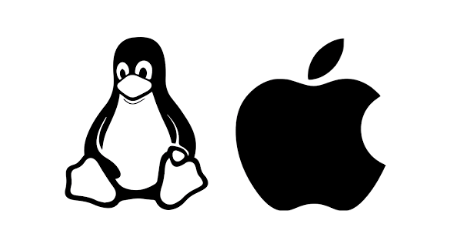
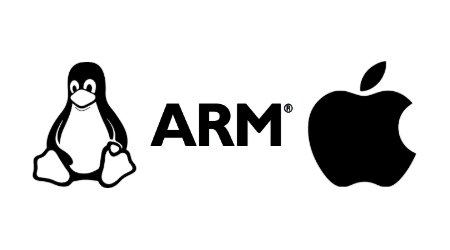
Add ARM.

Changed region(s): [[0.0622, 0.14, 0.9333, 0.868]]

diff --git a/index.html b/index.html
@@ -93,7 +93,7 @@ streamer_awesome = NFStreamer(source='devil.pcap',
     <div class="lp-center lp-section-container">
       <div class="lp-col  lp-col-left">
         <h2>Multiplatform support</h2>
-        <p>NFStream is currently supported on MacOS and main Linux distributions.
+        <p>NFStream is currently supported on major Linux distributions, MacOS and ARM (64bits) based platforms.
             You can install pre-built wheels for each platform using pip or build it from source.
         </p>
         <a href="{{ site.baseurl }}/docs/installation" class="btn btn-blue fs-5 mb-3 mb-md-5">View Installation Guide</a>
